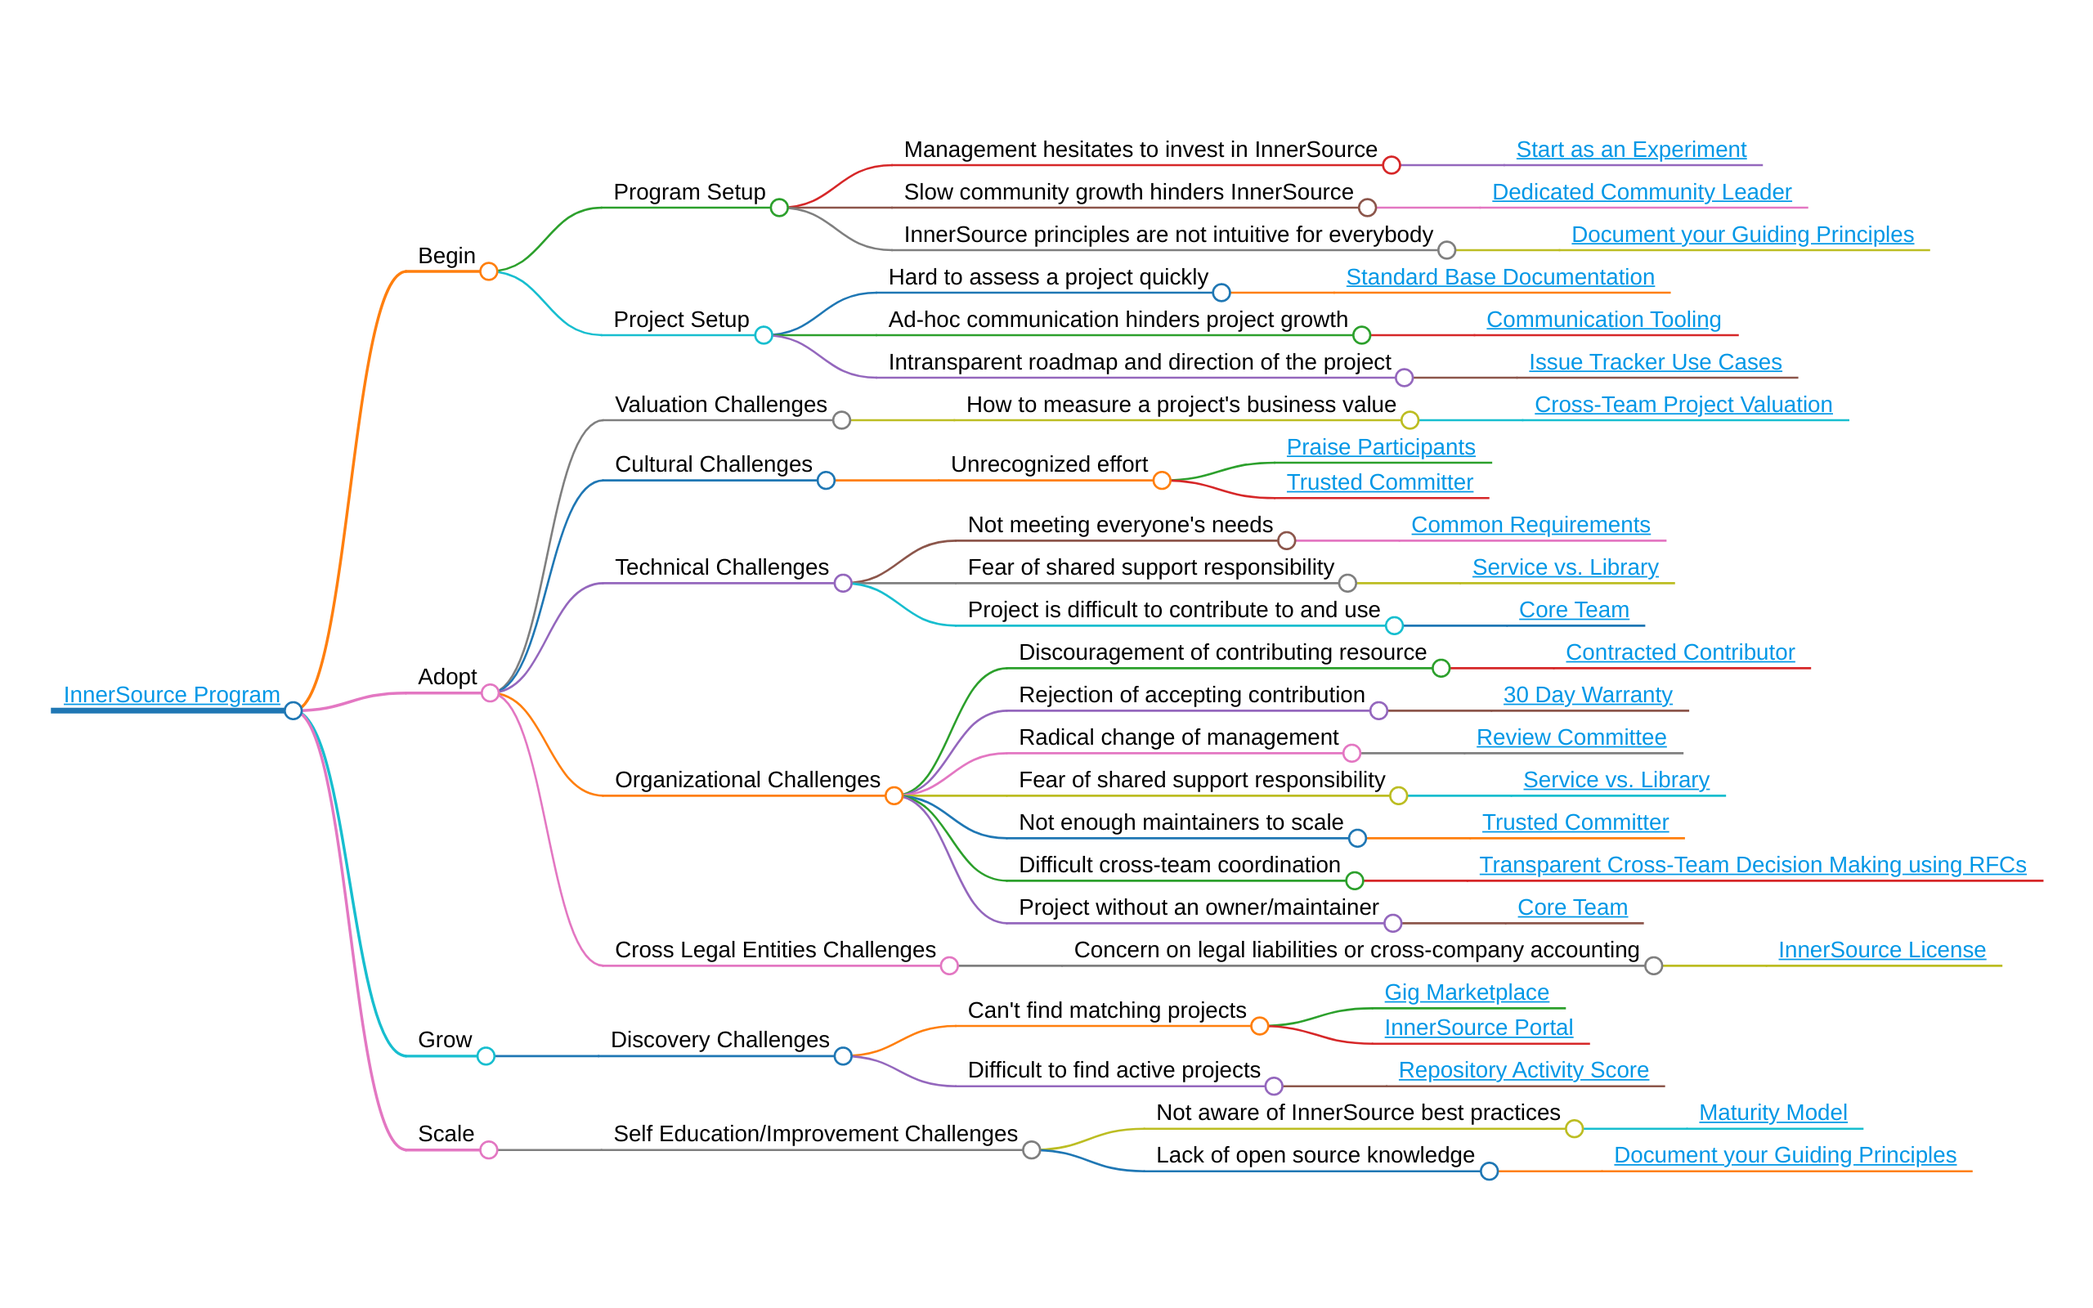
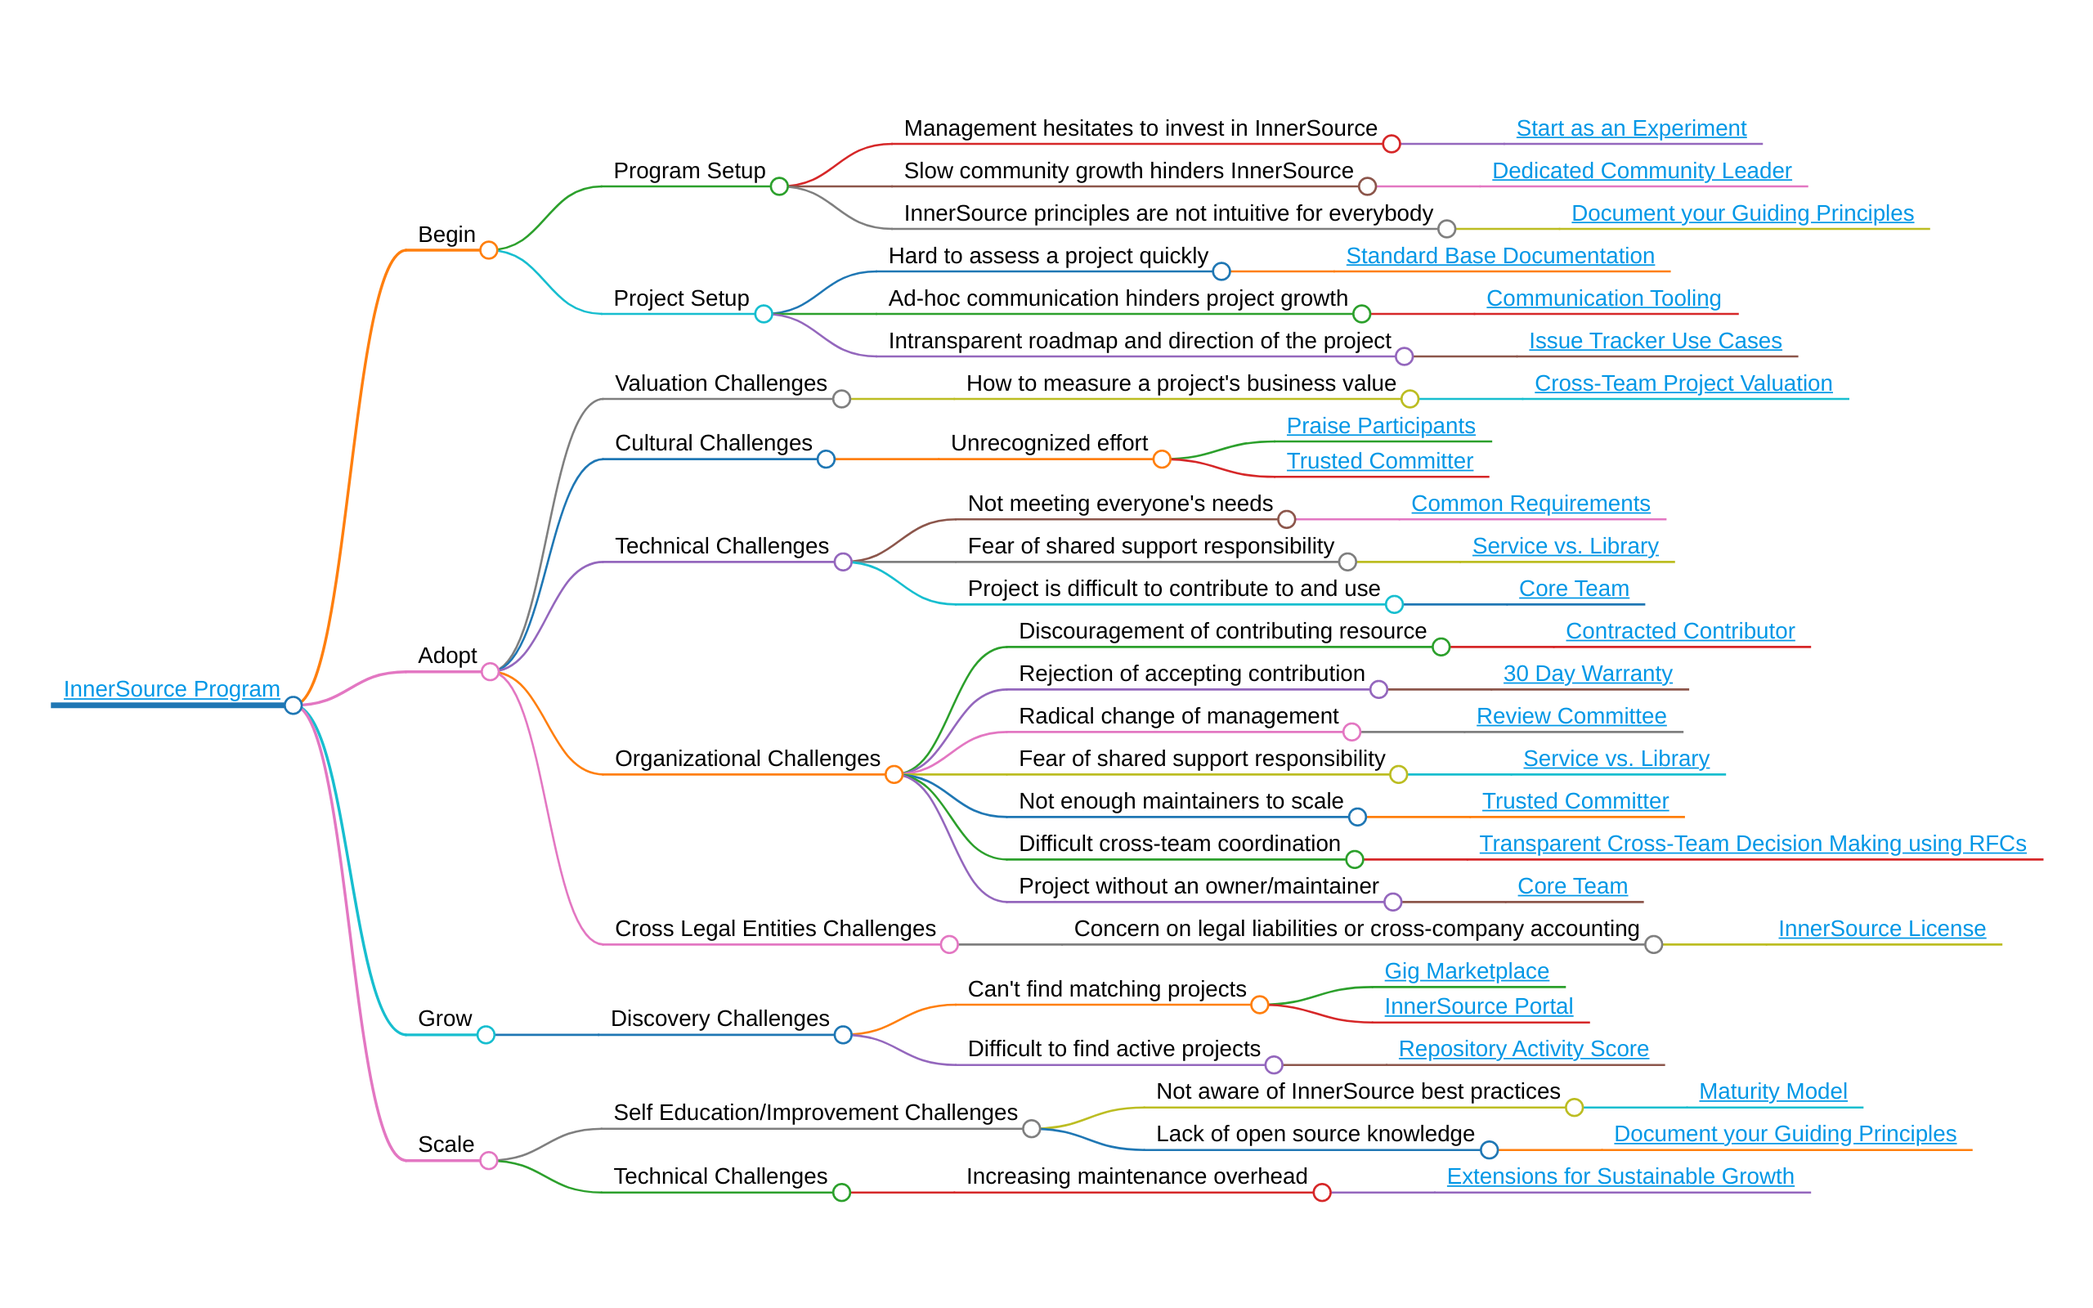
Re-creating markmap and screenshot

diff --git a/pattern-categorization/innersource-program-mind-map.html b/pattern-categorization/innersource-program-mind-map.html
@@ -23,6 +23,6 @@
 <script src="https://cdn.jsdelivr.net/npm/d3@6.7.0"></script><script src="https://cdn.jsdelivr.net/npm/markmap-view@0.13.3"></script><script>((getMarkmap, getOptions, root, jsonOptions) => {
         const markmap = getMarkmap();
         window.mm = markmap.Markmap.create('svg#mindmap', (getOptions || markmap.deriveOptions)(jsonOptions), root);
-      })(() => window.markmap,null,{"type":"heading","depth":1,"payload":{"lines":[0,1]},"content":"<a href=\"https://patterns.innersourcecommons.org/toc\">InnerSource Program</a>","children":[{"type":"heading","depth":2,"payload":{"lines":[2,3]},"content":"Begin","children":[{"type":"heading","depth":3,"payload":{"lines":[4,5]},"content":"Program Setup","children":[{"type":"heading","depth":4,"payload":{"lines":[6,7]},"content":"Management hesitates to invest in InnerSource","children":[{"type":"heading","depth":5,"payload":{"lines":[8,9]},"content":"<a href=\"https://patterns.innersourcecommons.org/p/start-as-experiment\">Start as an Experiment</a>"}]},{"type":"heading","depth":4,"payload":{"lines":[10,11]},"content":"Slow community growth hinders InnerSource","children":[{"type":"heading","depth":5,"payload":{"lines":[12,13]},"content":"<a href=\"https://patterns.innersourcecommons.org/p/dedicated-community-leader\">Dedicated Community Leader</a>"}]},{"type":"heading","depth":4,"payload":{"lines":[14,15]},"content":"InnerSource principles are not intuitive for everybody","children":[{"type":"heading","depth":5,"payload":{"lines":[16,17]},"content":"<a href=\"https://patterns.innersourcecommons.org/p/document-your-guiding-principles\">Document your Guiding Principles</a>"}]}]},{"type":"heading","depth":3,"payload":{"lines":[18,19]},"content":"Project Setup","children":[{"type":"heading","depth":4,"payload":{"lines":[20,21]},"content":"Hard to assess a project quickly","children":[{"type":"heading","depth":5,"payload":{"lines":[22,23]},"content":"<a href=\"https://patterns.innersourcecommons.org/p/base-documentation\">Standard Base Documentation</a>"}]},{"type":"heading","depth":4,"payload":{"lines":[24,25]},"content":"Ad-hoc communication hinders project growth","children":[{"type":"heading","depth":5,"payload":{"lines":[26,27]},"content":"<a href=\"https://patterns.innersourcecommons.org/p/communication-tooling\">Communication Tooling</a>"}]},{"type":"heading","depth":4,"payload":{"lines":[28,29]},"content":"Intransparent roadmap and direction of the project","children":[{"type":"heading","depth":5,"payload":{"lines":[30,31]},"content":"<a href=\"https://patterns.innersourcecommons.org/p/issue-tracker\">Issue Tracker Use Cases</a>"}]}]}]},{"type":"heading","depth":2,"payload":{"lines":[32,33]},"content":"Adopt","children":[{"type":"heading","depth":3,"payload":{"lines":[34,35]},"content":"Valuation Challenges","children":[{"type":"heading","depth":4,"payload":{"lines":[36,37]},"content":"How to measure a project's business value","children":[{"type":"heading","depth":5,"payload":{"lines":[38,39]},"content":"<a href=\"https://patterns.innersourcecommons.org/p/crossteam-project-valuation\">Cross-Team Project Valuation</a>"}]}]},{"type":"heading","depth":3,"payload":{"lines":[40,41]},"content":"Cultural Challenges","children":[{"type":"heading","depth":4,"payload":{"lines":[42,43]},"content":"Unrecognized effort","children":[{"type":"heading","depth":5,"payload":{"lines":[44,45]},"content":"<a href=\"https://patterns.innersourcecommons.org/p/praise-participants\">Praise Participants</a>"},{"type":"heading","depth":5,"payload":{"lines":[46,47]},"content":"<a href=\"https://patterns.innersourcecommons.org/p/trusted-committer\">Trusted Committer</a>"}]}]},{"type":"heading","depth":3,"payload":{"lines":[48,49]},"content":"Technical Challenges","children":[{"type":"heading","depth":4,"payload":{"lines":[50,51]},"content":"Not meeting everyone's needs","children":[{"type":"heading","depth":5,"payload":{"lines":[52,53]},"content":"<a href=\"https://patterns.innersourcecommons.org/p/common-requirements\">Common Requirements</a>"}]},{"type":"heading","depth":4,"payload":{"lines":[54,55]},"content":"Fear of shared support responsibility","children":[{"type":"heading","depth":5,"payload":{"lines":[56,57]},"content":"<a href=\"https://patterns.innersourcecommons.org/p/service-vs-library\">Service vs. Library</a>"}]},{"type":"heading","depth":4,"payload":{"lines":[58,59]},"content":"Project is difficult to contribute to and use","children":[{"type":"heading","depth":5,"payload":{"lines":[60,61]},"content":"<a href=\"https://patterns.innersourcecommons.org/p/core-team\">Core Team</a>"}]}]},{"type":"heading","depth":3,"payload":{"lines":[62,63]},"content":"Organizational Challenges","children":[{"type":"heading","depth":4,"payload":{"lines":[64,65]},"content":"Discouragement of contributing resource","children":[{"type":"heading","depth":5,"payload":{"lines":[66,67]},"content":"<a href=\"https://patterns.innersourcecommons.org/p/contracted-contributor\">Contracted Contributor</a>"}]},{"type":"heading","depth":4,"payload":{"lines":[68,69]},"content":"Rejection of accepting contribution","children":[{"type":"heading","depth":5,"payload":{"lines":[70,71]},"content":"<a href=\"https://patterns.innersourcecommons.org/p/30-day-warranty\">30 Day Warranty</a>"}]},{"type":"heading","depth":4,"payload":{"lines":[72,73]},"content":"Radical change of management","children":[{"type":"heading","depth":5,"payload":{"lines":[74,75]},"content":"<a href=\"https://patterns.innersourcecommons.org/p/review-committee\">Review Committee</a>"}]},{"type":"heading","depth":4,"payload":{"lines":[76,77]},"content":"Fear of shared support responsibility","children":[{"type":"heading","depth":5,"payload":{"lines":[78,79]},"content":"<a href=\"https://patterns.innersourcecommons.org/p/service-vs-library\">Service vs. Library</a>"}]},{"type":"heading","depth":4,"payload":{"lines":[80,81]},"content":"Not enough maintainers to scale","children":[{"type":"heading","depth":5,"payload":{"lines":[82,83]},"content":"<a href=\"https://patterns.innersourcecommons.org/p/trusted-committer\">Trusted Committer</a>"}]},{"type":"heading","depth":4,"payload":{"lines":[84,85]},"content":"Difficult cross-team coordination","children":[{"type":"heading","depth":5,"payload":{"lines":[86,87]},"content":"<a href=\"https://patterns.innersourcecommons.org/p/transparent-cross-team-decision-making-using-rfcs\">Transparent Cross-Team Decision Making using RFCs</a>"}]},{"type":"heading","depth":4,"payload":{"lines":[88,89]},"content":"Project without an owner/maintainer","children":[{"type":"heading","depth":5,"payload":{"lines":[90,91]},"content":"<a href=\"https://patterns.innersourcecommons.org/p/core-team\">Core Team</a>"}]}]},{"type":"heading","depth":3,"payload":{"lines":[92,93]},"content":"Cross Legal Entities Challenges","children":[{"type":"heading","depth":4,"payload":{"lines":[94,95]},"content":"Concern on legal liabilities or cross-company accounting","children":[{"type":"heading","depth":5,"payload":{"lines":[96,97]},"content":"<a href=\"https://patterns.innersourcecommons.org/p/innersource-license\">InnerSource License</a>"}]}]}]},{"type":"heading","depth":2,"payload":{"lines":[98,99]},"content":"Grow","children":[{"type":"heading","depth":3,"payload":{"lines":[100,101]},"content":"Discovery Challenges","children":[{"type":"heading","depth":4,"payload":{"lines":[102,103]},"content":"Can't find matching projects","children":[{"type":"heading","depth":5,"payload":{"lines":[104,105]},"content":"<a href=\"https://patterns.innersourcecommons.org/p/gig-marketplace\">Gig Marketplace</a>"},{"type":"heading","depth":5,"payload":{"lines":[106,107]},"content":"<a href=\"https://patterns.innersourcecommons.org/p/innersource-portal\">InnerSource Portal</a>"}]},{"type":"heading","depth":4,"payload":{"lines":[108,109]},"content":"Difficult to find active projects","children":[{"type":"heading","depth":5,"payload":{"lines":[110,111]},"content":"<a href=\"https://patterns.innersourcecommons.org/p/repository-activity-score\">Repository Activity Score</a>"}]}]}]},{"type":"heading","depth":2,"payload":{"lines":[112,113]},"content":"Scale","children":[{"type":"heading","depth":3,"payload":{"lines":[114,115]},"content":"Self Education/Improvement Challenges","children":[{"type":"heading","depth":4,"payload":{"lines":[116,117]},"content":"Not aware of InnerSource best practices","children":[{"type":"heading","depth":5,"payload":{"lines":[118,119]},"content":"<a href=\"https://patterns.innersourcecommons.org/p/maturity-model\">Maturity Model</a>"}]},{"type":"heading","depth":4,"payload":{"lines":[120,121]},"content":"Lack of open source knowledge","children":[{"type":"heading","depth":5,"payload":{"lines":[122,123]},"content":"<a href=\"https://patterns.innersourcecommons.org/p/document-your-guiding-principles\">Document your Guiding Principles</a>"}]}]}]}]},null)</script>
+      })(() => window.markmap,null,{"type":"heading","depth":1,"payload":{"lines":[0,1]},"content":"<a href=\"https://patterns.innersourcecommons.org/toc\">InnerSource Program</a>","children":[{"type":"heading","depth":2,"payload":{"lines":[2,3]},"content":"Begin","children":[{"type":"heading","depth":3,"payload":{"lines":[4,5]},"content":"Program Setup","children":[{"type":"heading","depth":4,"payload":{"lines":[6,7]},"content":"Management hesitates to invest in InnerSource","children":[{"type":"heading","depth":5,"payload":{"lines":[8,9]},"content":"<a href=\"https://patterns.innersourcecommons.org/p/start-as-experiment\">Start as an Experiment</a>"}]},{"type":"heading","depth":4,"payload":{"lines":[10,11]},"content":"Slow community growth hinders InnerSource","children":[{"type":"heading","depth":5,"payload":{"lines":[12,13]},"content":"<a href=\"https://patterns.innersourcecommons.org/p/dedicated-community-leader\">Dedicated Community Leader</a>"}]},{"type":"heading","depth":4,"payload":{"lines":[14,15]},"content":"InnerSource principles are not intuitive for everybody","children":[{"type":"heading","depth":5,"payload":{"lines":[16,17]},"content":"<a href=\"https://patterns.innersourcecommons.org/p/document-your-guiding-principles\">Document your Guiding Principles</a>"}]}]},{"type":"heading","depth":3,"payload":{"lines":[18,19]},"content":"Project Setup","children":[{"type":"heading","depth":4,"payload":{"lines":[20,21]},"content":"Hard to assess a project quickly","children":[{"type":"heading","depth":5,"payload":{"lines":[22,23]},"content":"<a href=\"https://patterns.innersourcecommons.org/p/base-documentation\">Standard Base Documentation</a>"}]},{"type":"heading","depth":4,"payload":{"lines":[24,25]},"content":"Ad-hoc communication hinders project growth","children":[{"type":"heading","depth":5,"payload":{"lines":[26,27]},"content":"<a href=\"https://patterns.innersourcecommons.org/p/communication-tooling\">Communication Tooling</a>"}]},{"type":"heading","depth":4,"payload":{"lines":[28,29]},"content":"Intransparent roadmap and direction of the project","children":[{"type":"heading","depth":5,"payload":{"lines":[30,31]},"content":"<a href=\"https://patterns.innersourcecommons.org/p/issue-tracker\">Issue Tracker Use Cases</a>"}]}]}]},{"type":"heading","depth":2,"payload":{"lines":[32,33]},"content":"Adopt","children":[{"type":"heading","depth":3,"payload":{"lines":[34,35]},"content":"Valuation Challenges","children":[{"type":"heading","depth":4,"payload":{"lines":[36,37]},"content":"How to measure a project's business value","children":[{"type":"heading","depth":5,"payload":{"lines":[38,39]},"content":"<a href=\"https://patterns.innersourcecommons.org/p/crossteam-project-valuation\">Cross-Team Project Valuation</a>"}]}]},{"type":"heading","depth":3,"payload":{"lines":[40,41]},"content":"Cultural Challenges","children":[{"type":"heading","depth":4,"payload":{"lines":[42,43]},"content":"Unrecognized effort","children":[{"type":"heading","depth":5,"payload":{"lines":[44,45]},"content":"<a href=\"https://patterns.innersourcecommons.org/p/praise-participants\">Praise Participants</a>"},{"type":"heading","depth":5,"payload":{"lines":[46,47]},"content":"<a href=\"https://patterns.innersourcecommons.org/p/trusted-committer\">Trusted Committer</a>"}]}]},{"type":"heading","depth":3,"payload":{"lines":[48,49]},"content":"Technical Challenges","children":[{"type":"heading","depth":4,"payload":{"lines":[50,51]},"content":"Not meeting everyone's needs","children":[{"type":"heading","depth":5,"payload":{"lines":[52,53]},"content":"<a href=\"https://patterns.innersourcecommons.org/p/common-requirements\">Common Requirements</a>"}]},{"type":"heading","depth":4,"payload":{"lines":[54,55]},"content":"Fear of shared support responsibility","children":[{"type":"heading","depth":5,"payload":{"lines":[56,57]},"content":"<a href=\"https://patterns.innersourcecommons.org/p/service-vs-library\">Service vs. Library</a>"}]},{"type":"heading","depth":4,"payload":{"lines":[58,59]},"content":"Project is difficult to contribute to and use","children":[{"type":"heading","depth":5,"payload":{"lines":[60,61]},"content":"<a href=\"https://patterns.innersourcecommons.org/p/core-team\">Core Team</a>"}]}]},{"type":"heading","depth":3,"payload":{"lines":[62,63]},"content":"Organizational Challenges","children":[{"type":"heading","depth":4,"payload":{"lines":[64,65]},"content":"Discouragement of contributing resource","children":[{"type":"heading","depth":5,"payload":{"lines":[66,67]},"content":"<a href=\"https://patterns.innersourcecommons.org/p/contracted-contributor\">Contracted Contributor</a>"}]},{"type":"heading","depth":4,"payload":{"lines":[68,69]},"content":"Rejection of accepting contribution","children":[{"type":"heading","depth":5,"payload":{"lines":[70,71]},"content":"<a href=\"https://patterns.innersourcecommons.org/p/30-day-warranty\">30 Day Warranty</a>"}]},{"type":"heading","depth":4,"payload":{"lines":[72,73]},"content":"Radical change of management","children":[{"type":"heading","depth":5,"payload":{"lines":[74,75]},"content":"<a href=\"https://patterns.innersourcecommons.org/p/review-committee\">Review Committee</a>"}]},{"type":"heading","depth":4,"payload":{"lines":[76,77]},"content":"Fear of shared support responsibility","children":[{"type":"heading","depth":5,"payload":{"lines":[78,79]},"content":"<a href=\"https://patterns.innersourcecommons.org/p/service-vs-library\">Service vs. Library</a>"}]},{"type":"heading","depth":4,"payload":{"lines":[80,81]},"content":"Not enough maintainers to scale","children":[{"type":"heading","depth":5,"payload":{"lines":[82,83]},"content":"<a href=\"https://patterns.innersourcecommons.org/p/trusted-committer\">Trusted Committer</a>"}]},{"type":"heading","depth":4,"payload":{"lines":[84,85]},"content":"Difficult cross-team coordination","children":[{"type":"heading","depth":5,"payload":{"lines":[86,87]},"content":"<a href=\"https://patterns.innersourcecommons.org/p/transparent-cross-team-decision-making-using-rfcs\">Transparent Cross-Team Decision Making using RFCs</a>"}]},{"type":"heading","depth":4,"payload":{"lines":[88,89]},"content":"Project without an owner/maintainer","children":[{"type":"heading","depth":5,"payload":{"lines":[90,91]},"content":"<a href=\"https://patterns.innersourcecommons.org/p/core-team\">Core Team</a>"}]}]},{"type":"heading","depth":3,"payload":{"lines":[92,93]},"content":"Cross Legal Entities Challenges","children":[{"type":"heading","depth":4,"payload":{"lines":[94,95]},"content":"Concern on legal liabilities or cross-company accounting","children":[{"type":"heading","depth":5,"payload":{"lines":[96,97]},"content":"<a href=\"https://patterns.innersourcecommons.org/p/innersource-license\">InnerSource License</a>"}]}]}]},{"type":"heading","depth":2,"payload":{"lines":[98,99]},"content":"Grow","children":[{"type":"heading","depth":3,"payload":{"lines":[100,101]},"content":"Discovery Challenges","children":[{"type":"heading","depth":4,"payload":{"lines":[102,103]},"content":"Can't find matching projects","children":[{"type":"heading","depth":5,"payload":{"lines":[104,105]},"content":"<a href=\"https://patterns.innersourcecommons.org/p/gig-marketplace\">Gig Marketplace</a>"},{"type":"heading","depth":5,"payload":{"lines":[106,107]},"content":"<a href=\"https://patterns.innersourcecommons.org/p/innersource-portal\">InnerSource Portal</a>"}]},{"type":"heading","depth":4,"payload":{"lines":[108,109]},"content":"Difficult to find active projects","children":[{"type":"heading","depth":5,"payload":{"lines":[110,111]},"content":"<a href=\"https://patterns.innersourcecommons.org/p/repository-activity-score\">Repository Activity Score</a>"}]}]}]},{"type":"heading","depth":2,"payload":{"lines":[112,113]},"content":"Scale","children":[{"type":"heading","depth":3,"payload":{"lines":[114,115]},"content":"Self Education/Improvement Challenges","children":[{"type":"heading","depth":4,"payload":{"lines":[116,117]},"content":"Not aware of InnerSource best practices","children":[{"type":"heading","depth":5,"payload":{"lines":[118,119]},"content":"<a href=\"https://patterns.innersourcecommons.org/p/maturity-model\">Maturity Model</a>"}]},{"type":"heading","depth":4,"payload":{"lines":[120,121]},"content":"Lack of open source knowledge","children":[{"type":"heading","depth":5,"payload":{"lines":[122,123]},"content":"<a href=\"https://patterns.innersourcecommons.org/p/document-your-guiding-principles\">Document your Guiding Principles</a>"}]}]},{"type":"heading","depth":3,"payload":{"lines":[124,125]},"content":"Technical Challenges","children":[{"type":"heading","depth":4,"payload":{"lines":[126,127]},"content":"Increasing maintenance overhead","children":[{"type":"heading","depth":5,"payload":{"lines":[128,129]},"content":"<a href=\"https://patterns.innersourcecommons.org/p/extensions-for-sustainable-growth\">Extensions for Sustainable Growth</a>"}]}]}]}]},null)</script>
 </body>
 </html>
